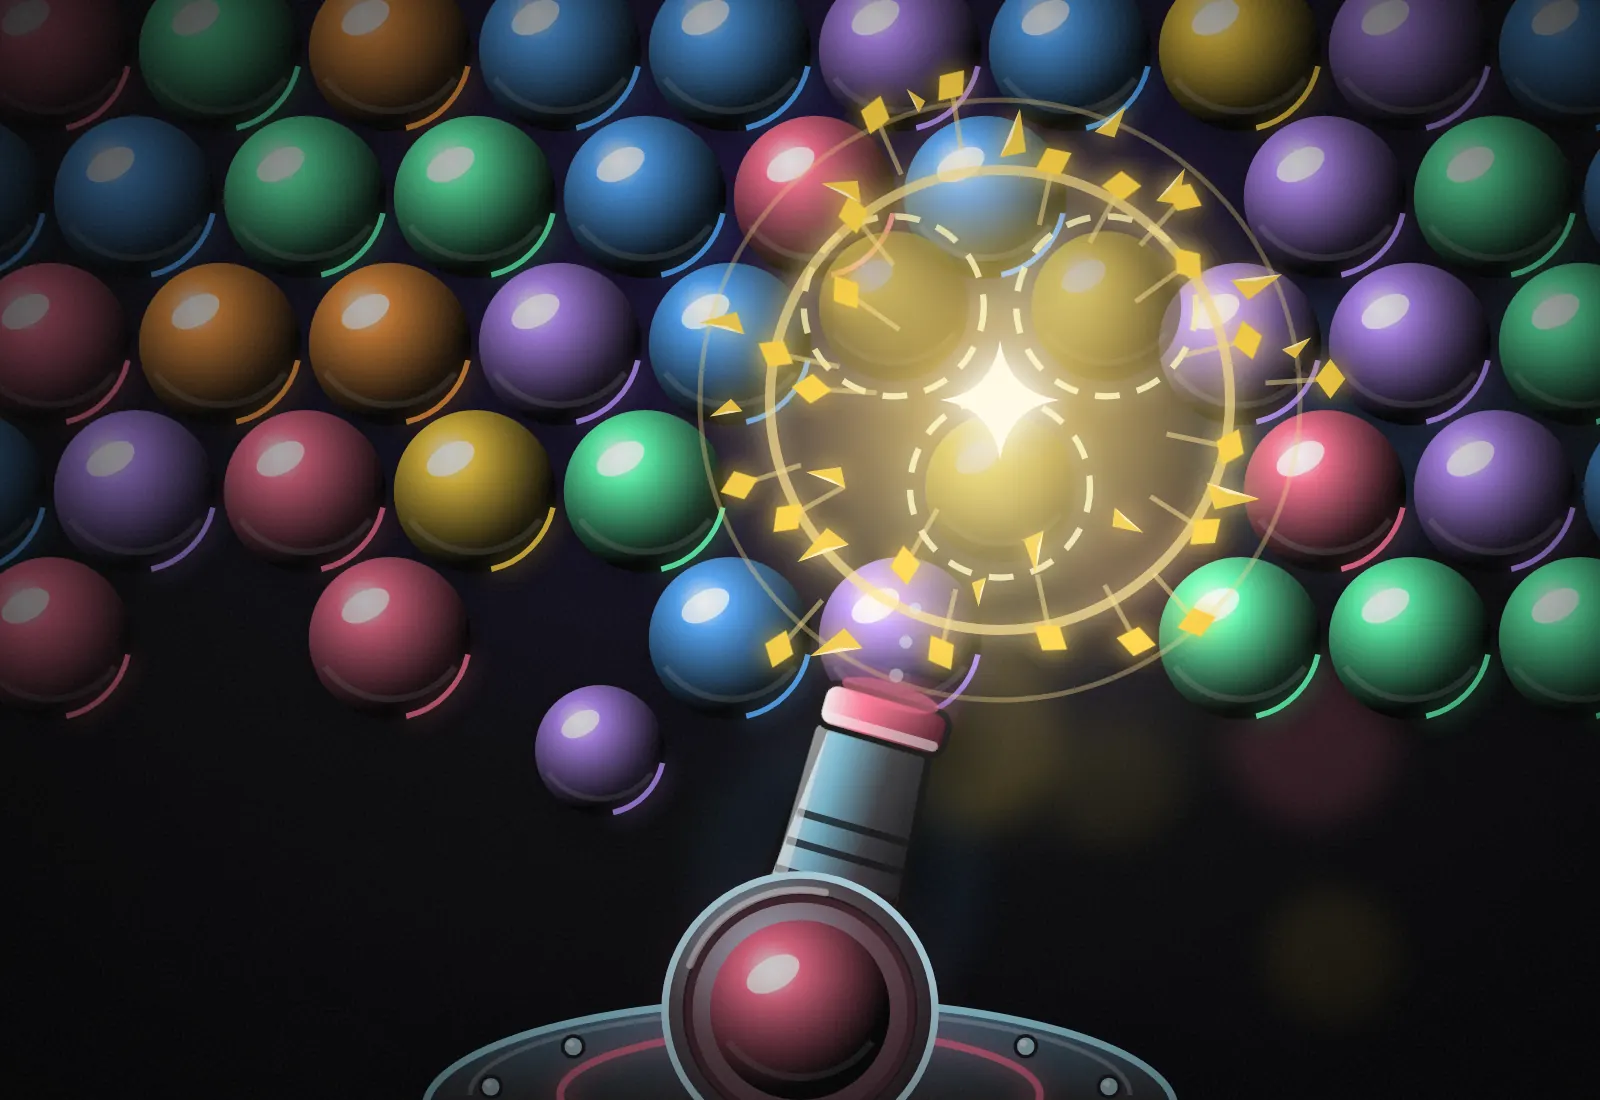
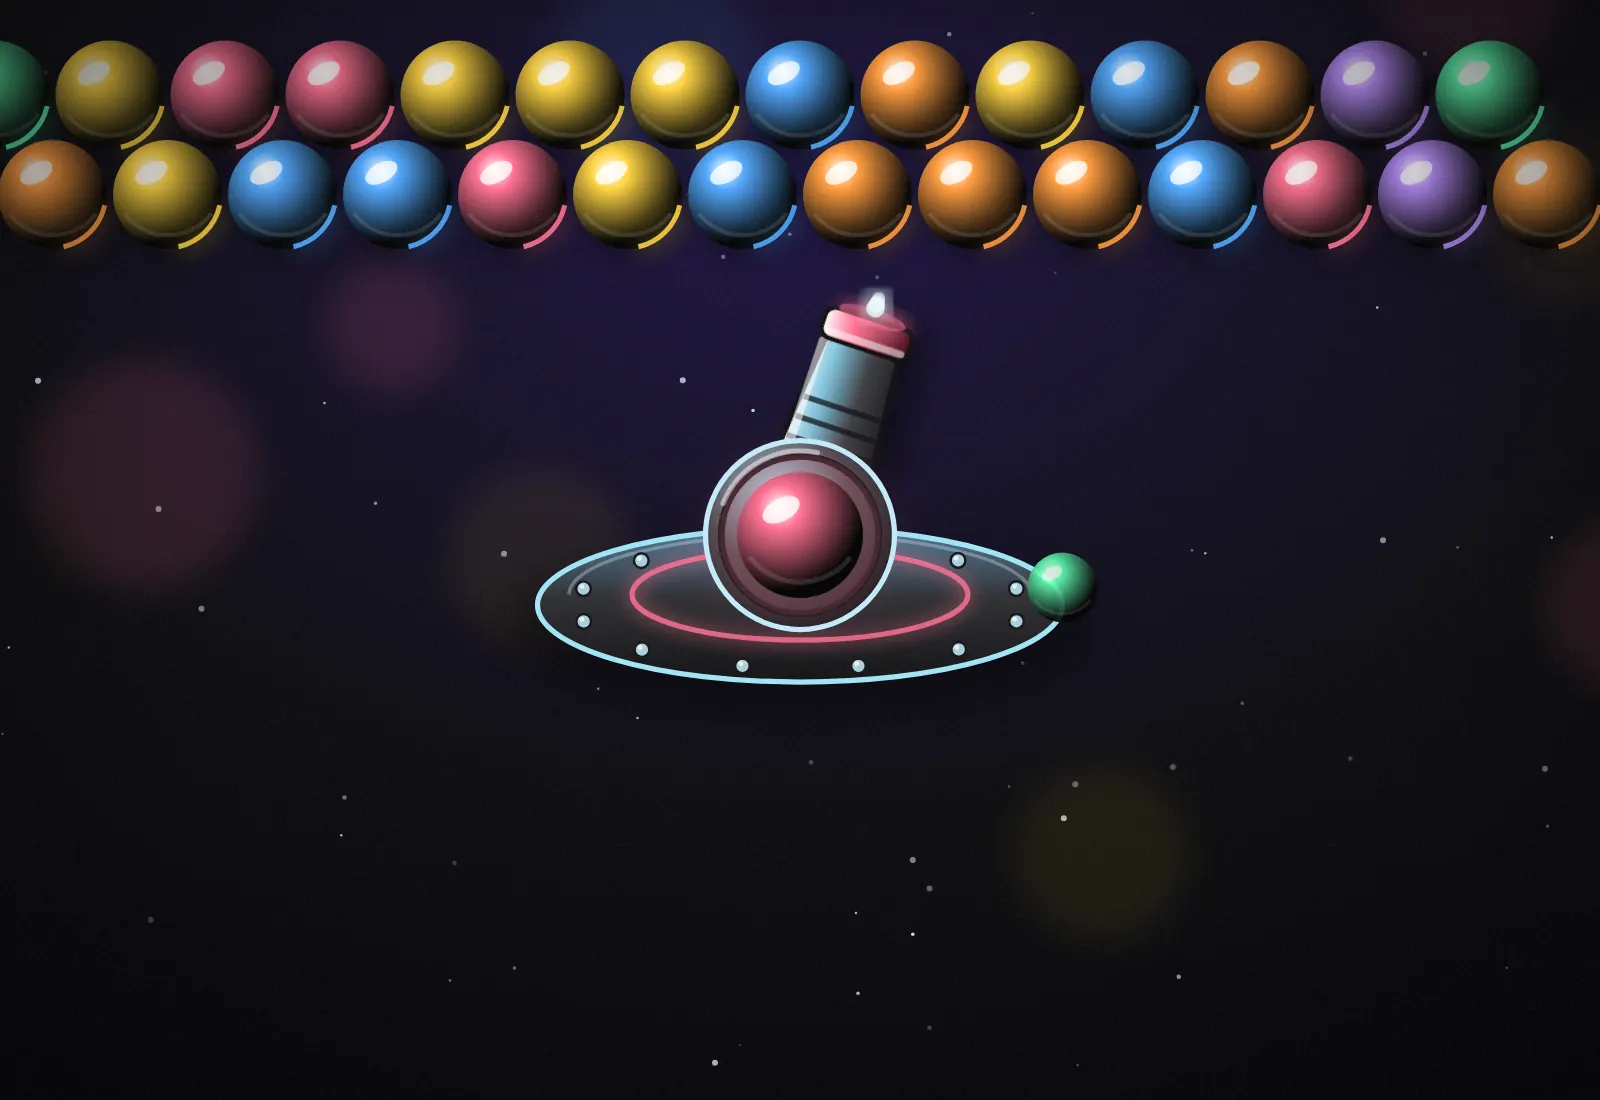
v182-saturn: arrastrar con el ratón en ordenador y portada de Orb Burst con el cañón
- En el marco de ordenador, arrastrar con el ratón desplaza las filas horizontales como un
  deslizamiento; un arrastre no abre tarjetas y un clic sí.
- Portada de Orb Burst: dos filas de bolas, hueco y el cañón entero sobre el nombre.

Claude-Session: https://claude.ai/code/session_01T4RQvtj6TzY12omNmDqNK8

diff --git a/components/mouseDragScroll.ts b/components/mouseDragScroll.ts
@@ -1,0 +1,75 @@
+/**
+ * v182 · Computers have no finger to swipe with: in the desktop platform, dragging with the mouse scrolls any
+ * horizontal strip (catalogue rows, the avatar picker), as a swipe does on a phone. A real drag never becomes a
+ * click on the card under the pointer; a plain click still works. Presentation only.
+ */
+const DRAG_THRESHOLD = 6;
+
+function horizontalScroller(start: EventTarget | null): HTMLElement | null {
+  for (let el = start instanceof Element ? start : null; el && el !== document.body; el = el.parentElement) {
+    if (!(el instanceof HTMLElement)) continue;
+    if (el.closest("input, textarea, select, canvas, [contenteditable='true']")) return null;
+    const overflow = getComputedStyle(el).overflowX;
+    if ((overflow === "auto" || overflow === "scroll") && el.scrollWidth > el.clientWidth + 1) return el;
+  }
+  return null;
+}
+
+/** Installs the behaviour on the document; returns the function that removes it. */
+export function installMouseDragScroll(doc: Document = document) {
+  let target: HTMLElement | null = null, startX = 0, startLeft = 0, dragging = false, snap = "";
+  let suppressClick = false;
+  const down = (e: PointerEvent) => {
+    if (e.pointerType !== "mouse" || e.button !== 0) return;
+    target = horizontalScroller(e.target);
+    if (!target) return;
+    startX = e.clientX; startLeft = target.scrollLeft; dragging = false;
+  };
+  const move = (e: PointerEvent) => {
+    if (!target) return;
+    const dx = e.clientX - startX;
+    if (!dragging && Math.abs(dx) < DRAG_THRESHOLD) return;
+    if (!dragging) {
+      dragging = true;
+      snap = target.style.scrollSnapType;
+      target.style.scrollSnapType = "none"; // follow the mouse freely; the strip snaps again on release
+      target.style.cursor = "grabbing";
+      try { target.setPointerCapture(e.pointerId); } catch { /* the release still ends the drag */ }
+    }
+    target.scrollLeft = startLeft - dx;
+    e.preventDefault();
+  };
+  const up = () => {
+    if (!target) return;
+    if (dragging) {
+      suppressClick = true;
+      setTimeout(() => { suppressClick = false; }, 0); // only the click that ends this drag is swallowed
+      const el = target;
+      el.style.cursor = "";
+      // Restore snapping and settle on the nearest card, as a swipe does.
+      requestAnimationFrame(() => { el.style.scrollSnapType = snap; });
+    }
+    target = null; dragging = false;
+  };
+  const click = (e: MouseEvent) => {
+    if (!suppressClick) return;
+    suppressClick = false;
+    e.preventDefault();
+    e.stopPropagation();
+  };
+  const dragstart = (e: DragEvent) => { if (horizontalScroller(e.target)) e.preventDefault(); }; // no ghost image of covers
+  doc.addEventListener("pointerdown", down, true);
+  doc.addEventListener("pointermove", move, { capture: true, passive: false });
+  doc.addEventListener("pointerup", up, true);
+  doc.addEventListener("pointercancel", up, true);
+  doc.addEventListener("click", click, true);
+  doc.addEventListener("dragstart", dragstart, true);
+  return () => {
+    doc.removeEventListener("pointerdown", down, true);
+    doc.removeEventListener("pointermove", move, true);
+    doc.removeEventListener("pointerup", up, true);
+    doc.removeEventListener("pointercancel", up, true);
+    doc.removeEventListener("click", click, true);
+    doc.removeEventListener("dragstart", dragstart, true);
+  };
+}

diff --git a/components/PlatformShell.tsx b/components/PlatformShell.tsx
@@ -8,6 +8,7 @@ import { useEffect, useState, type ReactNode } from "react";
 import qrcode from "qrcode-generator";
 import { t, useI18n } from "@/lib/i18n";
 import { PLATFORM_PARAM, isFramed, isPhoneLikeDevice } from "@/lib/platform";
+import { installMouseDragScroll } from "./mouseDragScroll";
 
 function QrCode({ text }: { text: string }) {
   const qr = qrcode(0, "M");
@@ -27,6 +28,8 @@ export default function PlatformShell({ children }: { children: ReactNode }) {
   useI18n();
   const [frameSrc, setFrameSrc] = useState<string | null>(null);
   const [origin, setOrigin] = useState("");
+  // v182: inside the desktop frame the mouse drags horizontal strips, like a swipe on a phone.
+  useEffect(() => (isFramed() ? installMouseDragScroll() : undefined), []);
   useEffect(() => {
     if (isFramed()) return;
     const coarse = typeof window.matchMedia === "function" && window.matchMedia("(pointer: coarse)").matches;

diff --git a/lib/productIdentity.ts b/lib/productIdentity.ts
@@ -6,7 +6,7 @@ export const PRODUCT_DESCRIPTION = 'Arcade espacial móvil. Aprende en segundos,
  * Visible app version (Settings › Acerca de): the current release number only — no internal branch names. Bump it
  * with every release (v161 → 1.61).
  */
-export const APP_VERSION = "1.81";
+export const APP_VERSION = "1.82";
 
 /**
  * Public support/privacy contact. Leave empty until the owner publishes one:

diff --git a/lib/games.ts b/lib/games.ts
@@ -236,7 +236,7 @@ const GAME_DEFINITIONS = [
     competition: { verification: "server-replay", engineVersion: "skill-core-3", inputProtocolVersion: 6, allowedActions: ORB_ACTIONS },
     resultMetric: "orbs-eliminated",
     name: "Orb Burst",
-    cover: "/covers/orb-burst.webp?v=178",
+    cover: "/covers/orb-burst.webp?v=182",
     enabled: true,
     waitingStakes: [5, 50],
     category: "PUZZLE",

diff --git a/scripts/generate-covers.py b/scripts/generate-covers.py
@@ -1721,6 +1721,69 @@ def orb_v164():
 # v178: the owner asked for the previous Orb Burst cover back (v162, with the loose orbs beside the cannon).
 covers["orb-burst"] = orb_v162()
 
+
+def orb_v182():
+    """v182 · What the owner asked to see on the card: the cannon, whole, and two rows of orbs above it with clear
+    space between them — the game's opening position. Catalogue cards show the middle 440 × 440 and put the name over
+    the lower third, so everything sits in the upper two thirds of that square."""
+    d = ('<radialGradient id="o2bg" cx="50%" cy="18%" r="95%"><stop offset="0" stop-color="#1c1240"/><stop offset=".6" stop-color="#0a0a1c"/><stop offset="1" stop-color="#030308"/></radialGradient>'
+         '<linearGradient id="cnPlate" x1="0" y1="0" x2="0" y2="1"><stop offset="0" stop-color="#4f7a98"/><stop offset=".45" stop-color="#1d3a54"/><stop offset="1" stop-color="#08121d"/></linearGradient>'
+         '<linearGradient id="cnTube" x1="0" y1="0" x2="0" y2="1"><stop offset="0" stop-color="#e4f7ff"/><stop offset=".28" stop-color="#7cc0da"/><stop offset=".62" stop-color="#22506e"/><stop offset="1" stop-color="#0a1a29"/></linearGradient>'
+         '<linearGradient id="cnMuzzle" x1="0" y1="0" x2="0" y2="1"><stop offset="0" stop-color="#ffffff"/><stop offset=".35" stop-color="#ff6f91"/><stop offset="1" stop-color="#3a0a18"/></linearGradient>'
+         '<radialGradient id="cnDome" cx="38%" cy="30%" r="75%"><stop offset="0" stop-color="#b4e6f6"/><stop offset=".5" stop-color="#2a5878"/><stop offset="1" stop-color="#081626"/></radialGradient>')
+    p = ['<rect width="640" height="440" fill="url(#o2bg)"/>', stars(182, 70, 440), bokeh(19, ["#ff6f91", "#4fa8ff", "#ffd23f"], 8, 440, 18, 50, (.05, .14))]
+    cols = ["#4fa8ff", "#ff6f91", "#ffd23f", "#5cffb0", "#b98cff", "#ff9a3c"]
+    rr = random.Random(182)
+    R = 23
+    def orb_at(x, y, rad, c, idn):
+        return (f'<circle cx="{f(x + 2)}" cy="{f(y + 5)}" r="{f(rad)}" fill="#000" opacity=".35" filter="url(#dof)"/>'
+                + sphere(x, y, rad, c, idn, shadow=False, gloss=.75)
+                + f'<path d="M{f(x + rad * .2)},{f(y + rad * .96)} A{f(rad)},{f(rad)} 0 0 0 {f(x + rad * .96)},{f(y + rad * .2)}" fill="none" stroke="{c}" stroke-width="2" opacity=".9" filter="url(#glow)"/>')
+    # Two rows, hexagonally packed, across the whole width (the card's square shows the middle eight of them).
+    for row in range(2):
+        y = 38 + row * R * 1.73
+        for i in range(-1, 13):
+            x = 320 + (i - 6) * 2 * R + (R if row % 2 else 0)
+            p.append(orb_at(x, y, R - 1.2, rr.choice(cols), f"r{row}_{i}"))
+    # The cannon: plate, barrel aimed up at the rows, breech with the loaded orb; the next orb waits beside it.
+    cx, cy = 320, 214
+    tx, ty = 352, 118
+    ang = math.degrees(math.atan2(ty - cy, tx - cx))
+    sc = .7
+    c = [f'<defs>{d}</defs>', f'<g transform="translate({cx} {cy}) scale({sc}) translate({-cx} {-cy})">']
+    c.append(f'<ellipse cx="{cx}" cy="{cy + 52}" rx="168" ry="50" fill="#000" opacity=".45" filter="url(#soft)"/>')
+    c.append(f'<ellipse cx="{cx}" cy="{cy + 40}" rx="150" ry="44" fill="url(#cnPlate)" stroke="#9fe3f6" stroke-width="3"/>')
+    c.append(f'<path d="M{cx - 132},{cy + 34} A132,34 0 0 1 {cx + 132},{cy + 34}" fill="none" stroke="#ffffff" stroke-opacity=".28" stroke-width="2"/>')
+    c.append(f'<ellipse cx="{cx}" cy="{cy + 34}" rx="96" ry="26" fill="none" stroke="#ff6f91" stroke-width="3" opacity=".85" filter="url(#glow)"/>')
+    for k in range(12):
+        a = k * 2 * math.pi / 12 + .26
+        bx, by = cx + 128 * math.cos(a), cy + 40 + 36 * math.sin(a)
+        c.append(f'<circle cx="{f(bx)}" cy="{f(by)}" r="4.2" fill="#a9cede" stroke="#0a1622" stroke-width="1.4"/><circle cx="{f(bx - 1)}" cy="{f(by - 1.2)}" r="1.4" fill="#fff" opacity=".7"/>')
+    c.append(f'<g transform="translate({cx} {cy}) rotate({ang:.2f})" filter="url(#shadow)">'
+             '<polygon points="20,-30 118,-21 118,21 20,30" fill="url(#cnTube)" stroke="#06111c" stroke-width="3"/>'
+             + "".join(f'<line x1="{x0}" y1="{-28 + (x0 - 20) * .09:.1f}" x2="{x0}" y2="{28 - (x0 - 20) * .09:.1f}" stroke="#06111c" stroke-opacity=".75" stroke-width="3.2"/>' for x0 in (52, 64, 76))
+             + '<rect x="28" y="-25" width="84" height="5" rx="2.5" fill="#ffffff" opacity=".55"/>'
+             '<rect x="112" y="-26" width="18" height="52" rx="6" fill="url(#cnMuzzle)" stroke="#06111c" stroke-width="2.6"/>'
+             '<rect x="114" y="-24" width="4" height="48" rx="2" fill="#fff" opacity=".5"/>'
+             '<ellipse cx="131" cy="0" rx="5" ry="20" fill="#ff6f91" opacity=".55" filter="url(#glow)"/></g>')
+    c.append(f'<circle cx="{cx}" cy="{cy}" r="54" fill="url(#cnDome)" stroke="#bdf0ff" stroke-width="3"/>')
+    c.append(f'<circle cx="{cx}" cy="{cy}" r="45" fill="none" stroke="#06111c" stroke-width="4"/>')
+    c.append(f'<path d="M{cx - 44},{cy - 18} A48,48 0 0 1 {cx + 10},{cy - 47}" fill="none" stroke="#ffffff" stroke-opacity=".5" stroke-width="3" stroke-linecap="round"/>')
+    c.append(f'<circle cx="{cx}" cy="{cy}" r="46" fill="#ff6f91" opacity=".22" filter="url(#bigglow)"/>')
+    c.append(sphere(cx, cy, 36, "#ff6f91", "shot", shadow=False, gloss=.8))
+    c.append(f'<g opacity=".9">{sphere(cx + 150, cy + 30, 20, "#5cffb0", "nextshot", shadow=False)}</g>')
+    c.append('</g>')
+    # The aim: a dotted line from the muzzle into the gap under the rows, fading out before it reaches them.
+    mx, my = cx + 135 * sc * math.cos(math.radians(ang)), cy + 135 * sc * math.sin(math.radians(ang))
+    for q in range(1, 6):
+        t = q / 6
+        x, y = mx + (tx - mx) * t, my + (ty - my) * t
+        c.append(f'<circle cx="{f(x)}" cy="{f(y)}" r="{f(4 - t * 1.8)}" fill="#e9fbff" opacity="{.9 - t * .55:.2f}" filter="url(#glow)"/>')
+    return svg("".join(p) + "".join(c), extra_defs="")
+
+
+covers["orb-burst"] = orb_v182()
+
 # ---------- v162: Mine Grid that reads as the game ----------
 # A real minesweeper position: the gold start cell has just been tapped and the field opens around it; every number
 # counts the mines around it, and the flags stand exactly on mines that those numbers prove. Graphite tiles and neon

diff --git a/docs/STATE.md b/docs/STATE.md
@@ -4,7 +4,7 @@ Fuente única del estado del producto. Prevalece sobre `PRODUCT_BACKLOG_STATUS.m
 (congelado en v98) y sobre las notas de versión antiguas. Cada pull request que
 cambie algo de lo que aparece aquí lo actualiza.
 
-Actualizado: 12 de noviembre de 2026 · base `mobile-test` en v181-saturn.
+Actualizado: 12 de noviembre de 2026 · base `mobile-test` en v182-saturn.
 
 ## Catálogo
 
@@ -86,6 +86,7 @@ para replay). Fuente de verdad: `lib/games.ts`.
   - nada puede solaparse en ningún momento: los botones van fuera del tablero y `scripts/qa-overlap.cjs` lo comprueba.
 - [x] **Ruleta V16 y bordes (1 de noviembre, v136):** la bola se lanza de verdad desde el lanzador y entra con su velocidad (sin círculo forzado ni velocidad mínima); bordes de tarjeta con un color por categoría.
 - [x] **Pinball V9 (1 de noviembre, v137):** bloqueo y multibola de tres bolas, jackpots crecientes, súper jackpot y modos de 20 s.
+- [x] **Arrastre en ordenador y portada de Orb Burst (12 de noviembre, v182):** el ratón desliza las filas en el marco de ordenador; Orb Burst con cañón y dos filas.
 - [x] **Grupo sin simulados (12 de noviembre, v181):** sin NOVA, KAI ni RHEA; EMPEZAR necesita otro jugador real (pendiente: grupos reales en servidor); competiciones antiguas con simulados retiradas con devolución de la entrada.
 - [x] **Ranking sin «Ver ejemplo» (12 de noviembre, v180):** Avatar › Ranking sin el selector real/ejemplo.
 - [x] **Signo ₡ y dos plataformas (12 de noviembre, v179):** cosmicoin con signo ₡ (fuente `gg-coin.woff`); el ordenador ya no se bloquea: ve la misma app en un marco de móvil y compite solo contra ordenadores (partidas públicas por plataforma con la migración aditiva 006, grupos con código M/D, rankings por plataforma). Pendiente: aplicar la migración 006 en producción.

diff --git a/docs/releases/v182-saturn.md b/docs/releases/v182-saturn.md
@@ -1,0 +1,14 @@
+# v182-saturn — Ordenador: arrastrar con el ratón; portada de Orb Burst con el cañón (12-nov-2026)
+
+Base: v181-saturn.
+
+- **Ordenador:** dentro del marco de ordenador, arrastrar con el ratón desplaza las filas horizontales (catálogo y
+  selector de avatares), como el dedo en el móvil (`components/mouseDragScroll.ts`).
+  - Un arrastre no abre la tarjeta que hay debajo; un clic normal sí la abre.
+  - El ajuste a tarjeta vuelve al soltar.
+  - Comprobado a 1440 × 900: la fila pasa de 0 a 292 px y un clic abre Billar.
+- **Portada de Orb Burst:** dos filas de bolas arriba, un hueco libre y el cañón entero (base, cañón, bola cargada y
+  la siguiente) por encima del nombre de la tarjeta, con la línea de puntería hacia el hueco.
+  - Generada con `orb_v182()` en `generate-covers.py`, con `?v=182`.
+- **Validación:** `pnpm lint`, `pnpm test:determinism` (incluye Mine Grid 1.0 y 2.0, su autoridad privada y las
+  partidas resolubles de Solitaire), `pnpm build`, smoke de 13 juegos, solapes y `git diff --check`.

diff --git a/docs/PRODUCT_BACKLOG.md b/docs/PRODUCT_BACKLOG.md
@@ -882,6 +882,11 @@ Detalle: [releases/v125-saturn.md](releases/v125-saturn.md).
 - Orb Burst y Stack Shift: más detalle.
 - Botones de jugar: borde mecanizado, bisel y un barrido de luz cada pocos segundos.
 
+## v182-saturn · Arrastre en ordenador y portada de Orb Burst (12-nov-2026)
+
+- **Ordenador:** el ratón arrastra las filas horizontales.
+- **Orb Burst:** la portada muestra el cañón y dos filas de bolas separadas de él.
+
 ## v181-saturn · Grupo sin jugadores simulados (12-nov-2026)
 
 - El grupo empieza solo contigo; EMPEZAR exige otro jugador real.
